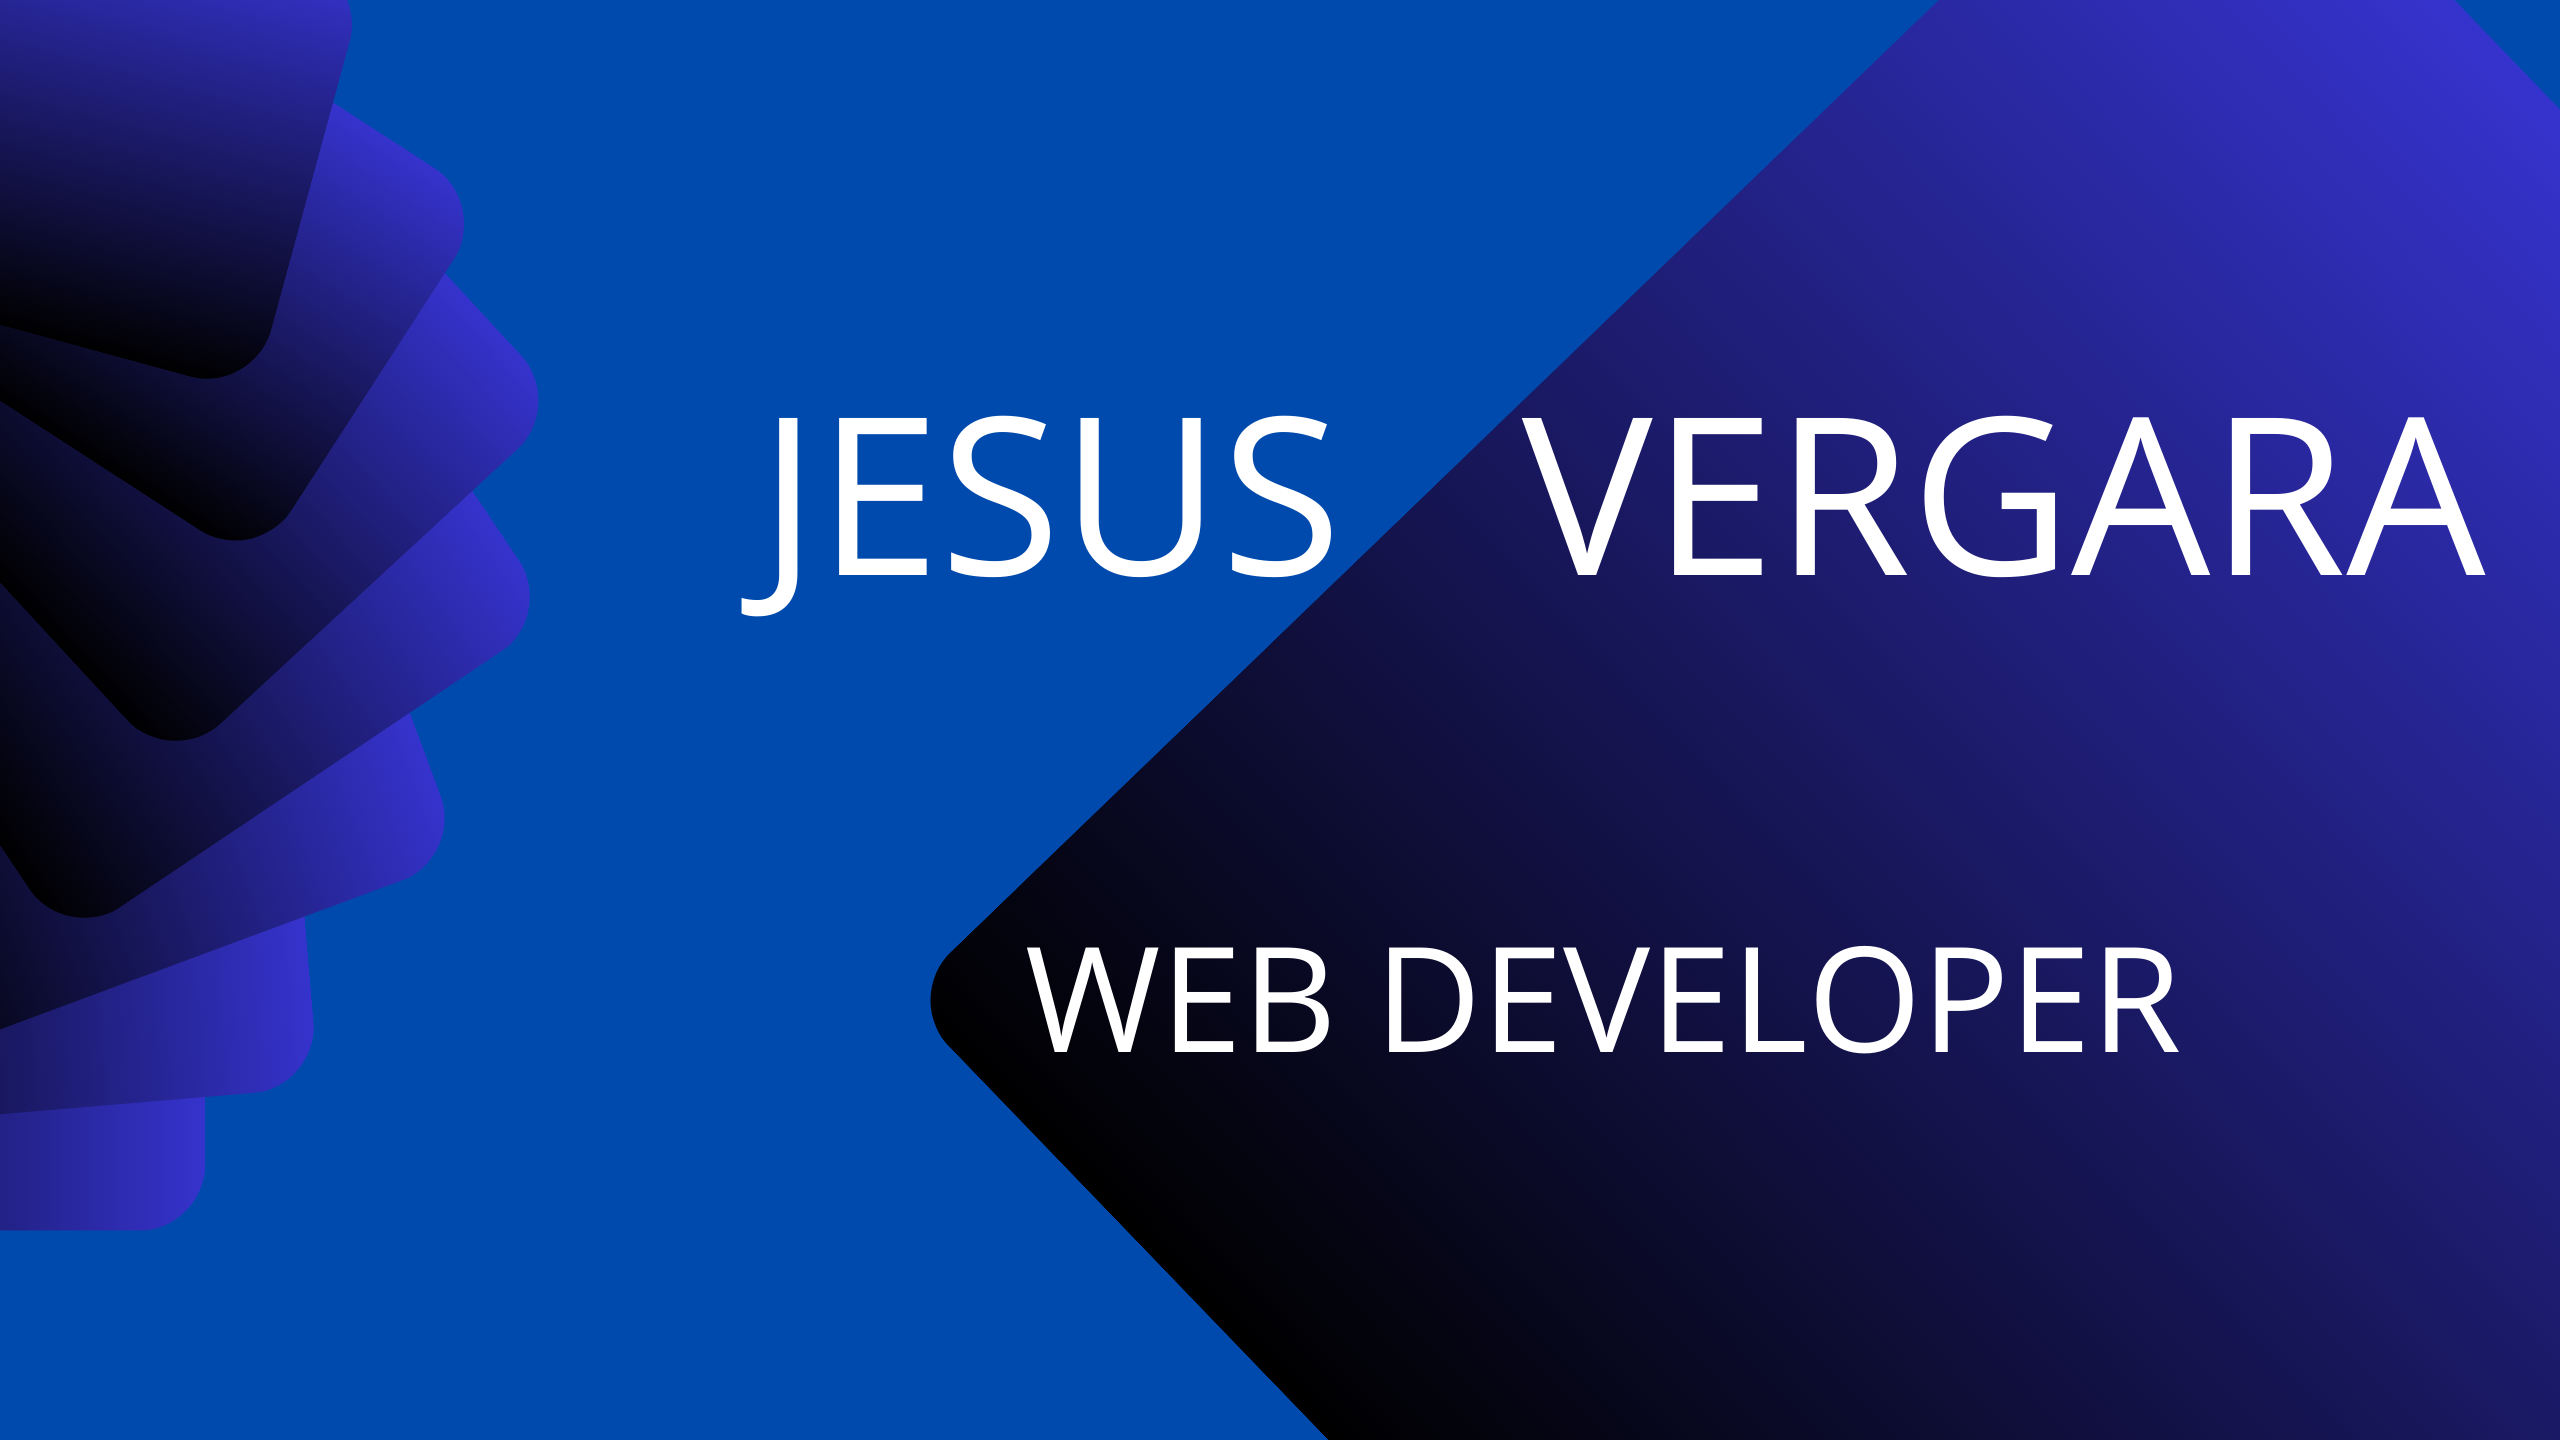
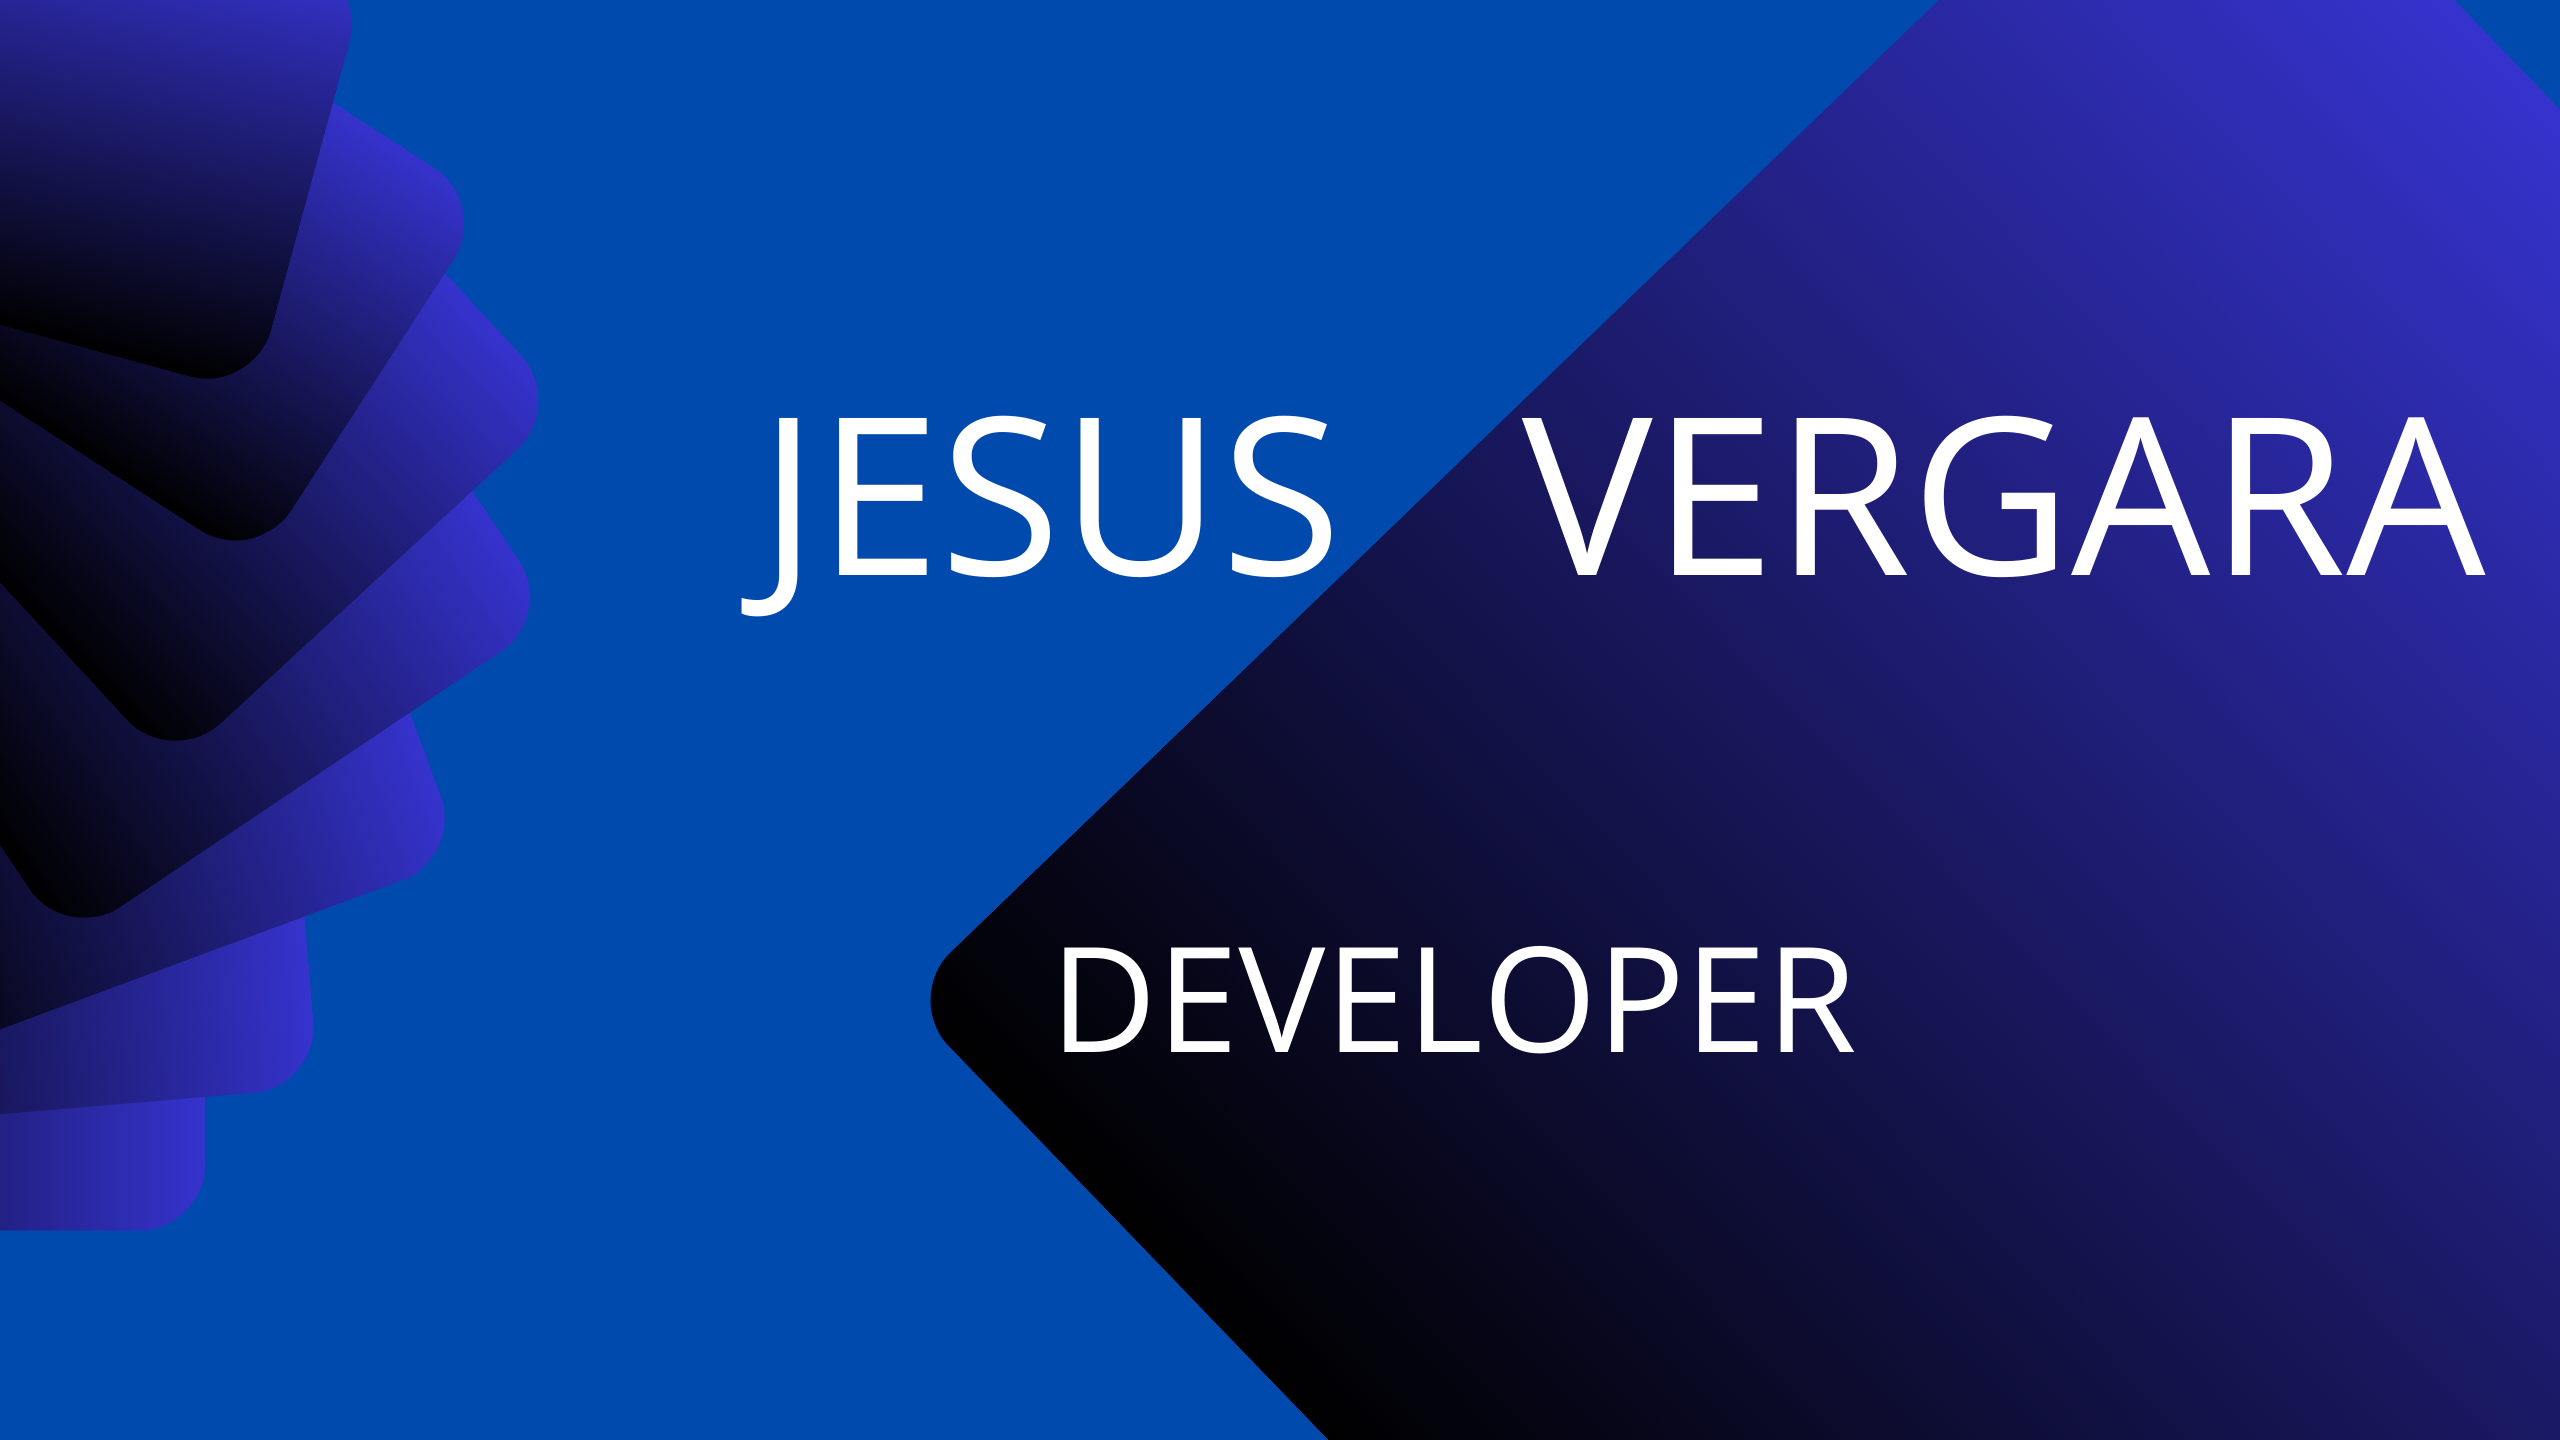
adding dipatch and a new pic about developer

Changed region(s): [[0.4062, 0.6562, 0.8438, 0.75]]

diff --git a/src/components/AddPostForm.js b/src/components/AddPostForm.js
@@ -1,33 +1,61 @@
-import React, { useState } from 'react'
+import React, { useState } from "react";
+import { useDispatch } from "react-redux";
+import { nanoid } from "@reduxjs/toolkit";
+import { postAdd } from "../store/slices/postSlice";
 
 const AddPostForm = () => {
-    const [title, setTitle] = useState('')
-    const [content, setContent] = useState('')
+  const [title, setTitle] = useState("");
+  const [content, setContent] = useState("");
 
-    const onTitleChanged = e => setTitle(e.target.value)
-    const onContentChanged = e => setContent(e.target.value)
+  const onTitleChanged = (e) => setTitle(e.target.value);
+  const onContentChanged = (e) => setContent(e.target.value);
+
+  const dispatch = useDispatch();
+
+  const onSavePost = () => {
+    if (title && content) {
+      dispatch(
+        postAdd({
+          id: nanoid(),
+          title,
+          body: content,
+        })
+      );
+      setTitle("");
+      setContent("");
+    }
+  };
 
   return (
-    <section className='flex flex-col items-center justify-center mb-16 gap-4'>
-        <h2 className='text-slate-500 text-center text-2xl font-bold' >Add new post</h2>
-        <form className='flex flex-col items-center justify-center gap-4'>
-            <label htmlFor='postTitle' >Post title:</label>
-            <input
-            type='text'
-            id='postTitle'
-            value={title}
-            onChange={onTitleChanged}
-            />
-            <label htmlFor='postContent' >Content:</label>
-            <textarea
-            id='postContent'
-            value={content}
-            onChange={onContentChanged}
-            />
-            <button className='bg-slate-800 hover:bg-slate-700 text-white font-bold py-2 px-4 rounded-md' >Add post</button>
-        </form>
+    <section className="flex flex-col items-center justify-center mb-16 gap-4">
+      <h2 className="text-slate-500 text-center text-2xl font-bold">
+        Add new post
+      </h2>
+      <form className="flex flex-col items-center justify-center gap-4">
+        <label htmlFor="postTitle">Post title:</label>
+        <input
+          className="border p-2 rounded-md bg-red-400 hover:bg-red-500"
+          type="text"
+          id="postTitle"
+          value={title}
+          onChange={onTitleChanged}
+        />
+        <label htmlFor="postContent">Content:</label>
+        <textarea
+          className="border p-2 rounded-md bg-red-400 hover:bg-red-500"
+          id="postContent"
+          value={content}
+          onChange={onContentChanged}
+        />
+        <button
+          className="bg-slate-800 hover:bg-slate-700 text-white font-bold py-2 px-4 rounded-md"
+          onClick={onSavePost}
+        >
+          Add post
+        </button>
+      </form>
     </section>
-  )
-}
+  );
+};
 
-export default AddPostForm
+export default AddPostForm;

diff --git a/src/components/PostList.js b/src/components/PostList.js
@@ -6,7 +6,7 @@ const PostList = () => {
   const post = useSelector(selectAllPost);
 
   const renderedPosts = post.map((post) => (
-    <div className="border p-2 rounded-md flex flex-col hover:bg-slate-700 hover:cursor-pointer" key={post.id}>
+    <div className="w-2/3  border p-2 rounded-md flex flex-col hover:bg-slate-700 hover:cursor-pointer" key={post.id}>
       <h3 className="text-slate-400 text-xl font-bold">{post.title}</h3>
       <p className="text-slate-400 text-sm">{post.body.substring(0, 100)}</p>
     </div>

diff --git a/src/components/Main.js b/src/components/Main.js
@@ -2,6 +2,7 @@ import React from 'react'
 import Rockets from './Rockets'
 import CounterUI from './CounterUI'
 import PostList from './PostList'
+import AddPostForm from './AddPostForm'
 
 const Main = () => {
   return (
@@ -48,6 +49,7 @@ const Main = () => {
                 Contact
             </h2>
         </section>
+        <AddPostForm/>
         <PostList/> 
     </main>
   )
